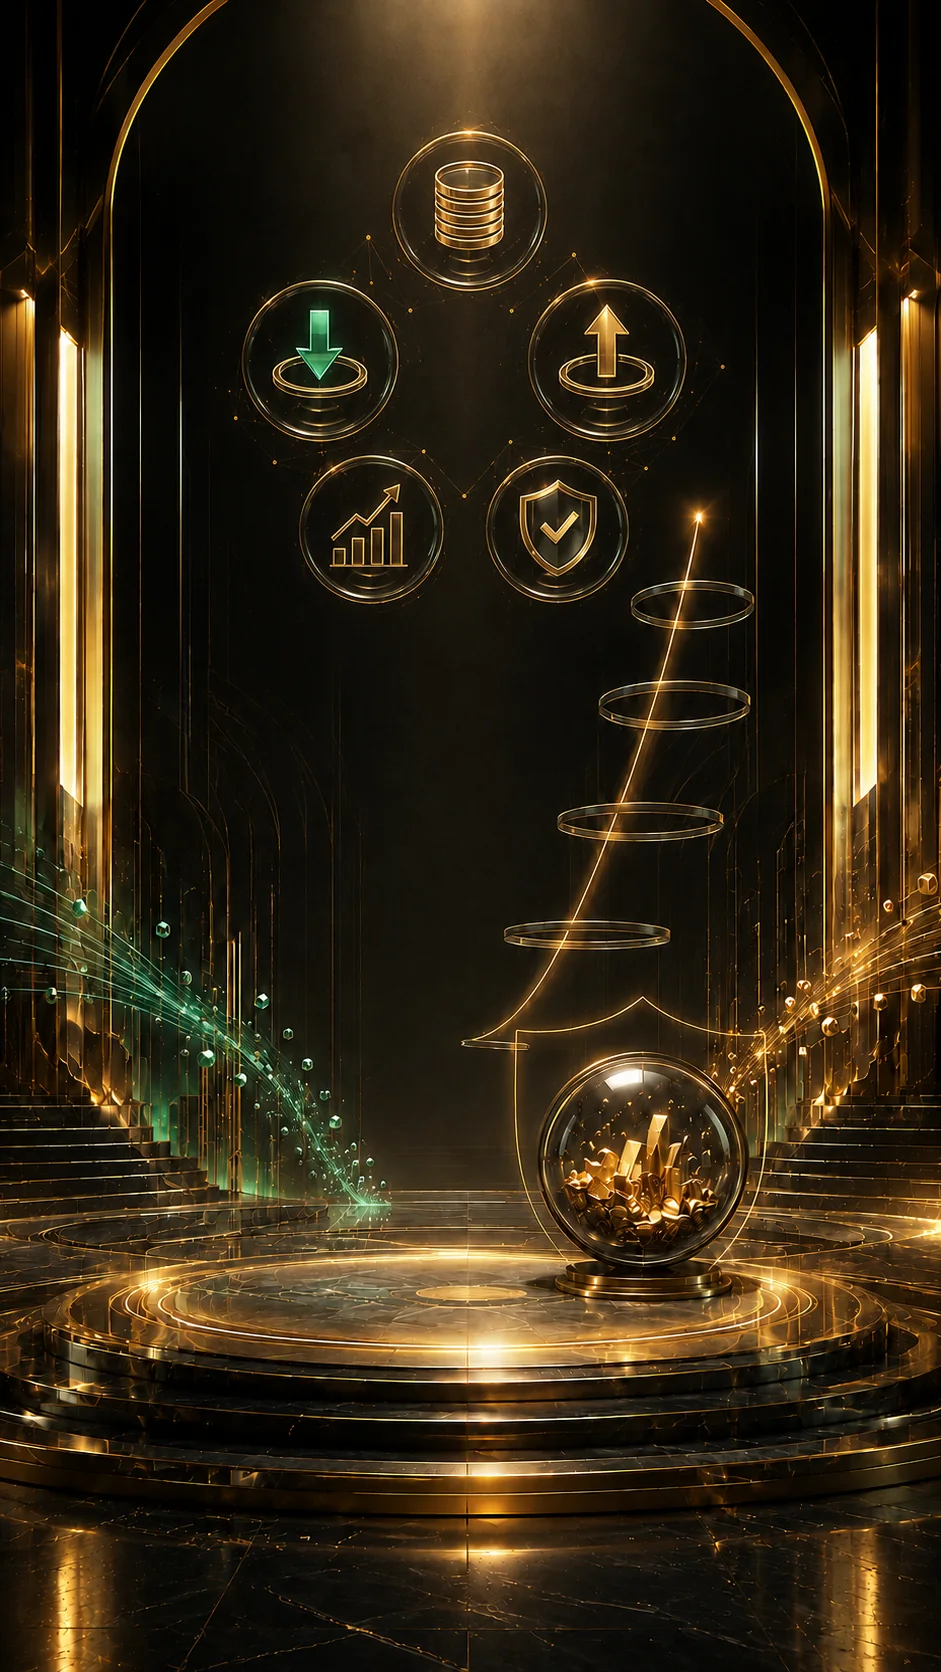
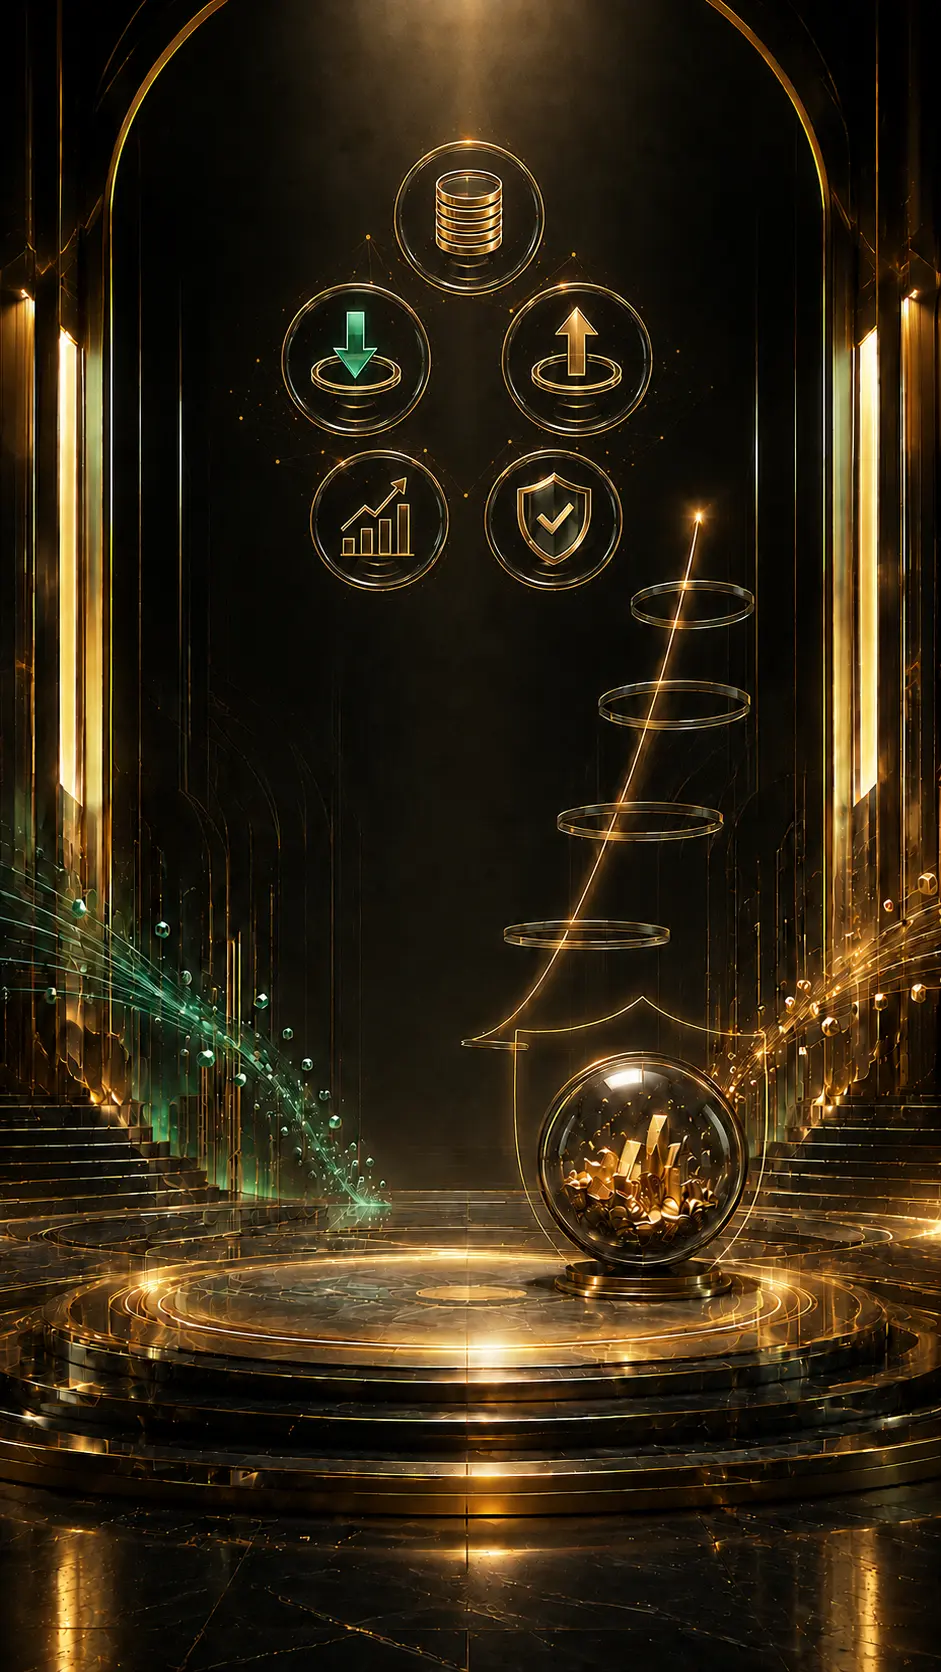
Add files via upload

diff --git a/index.html b/index.html
@@ -2847,13 +2847,14 @@ html[dir="rtl"] .footer-section>.site-footer{text-align:right}
   background-color:#05070a;
   background-repeat:no-repeat;
   background-position:center;
-  /* Show the complete artwork: never crop or zoom either image. */
-  background-size:100% 100%;
 }
 .portfolio-overview-scene{
   background-image:
     linear-gradient(180deg,rgba(3,6,9,.08),rgba(3,6,9,.18) 52%,rgba(3,6,9,.12)),
     url("portfolio-overview.webp");
+  /* Preserve every circle: proportional scaling prevents oval distortion. */
+  background-size:cover;
+  background-position:center top;
   border-radius:24px 24px 18px 18px;
 }
 .portfolio-finance-scene{
@@ -2861,6 +2862,7 @@ html[dir="rtl"] .footer-section>.site-footer{text-align:right}
   background-image:
     linear-gradient(180deg,rgba(3,6,9,.08),rgba(3,6,9,.16) 52%,rgba(3,6,9,.12)),
     url("portfolio-finance.webp");
+  background-size:100% 100%;
   border-top:1px solid rgba(240,185,11,.16);
   border-radius:18px 18px 24px 24px;
 }
@@ -2890,10 +2892,17 @@ html[dir="rtl"] .footer-section>.site-footer{text-align:right}
   .portfolio-overview-scene,.portfolio-finance-scene{
     padding:12px 9px;
     background-position:center;
-    background-size:100% 100%;
   }
-  .portfolio-overview-scene{border-radius:19px 19px 15px 15px}
-  .portfolio-finance-scene{margin-top:8px;border-radius:15px 15px 19px 19px}
+  .portfolio-overview-scene{
+    background-size:cover;
+    background-position:center top;
+    border-radius:19px 19px 15px 15px
+  }
+  .portfolio-finance-scene{
+    background-size:100% 100%;
+    margin-top:8px;
+    border-radius:15px 15px 19px 19px
+  }
 }
 
 /* Continuous cinematic backgrounds for account pages */
